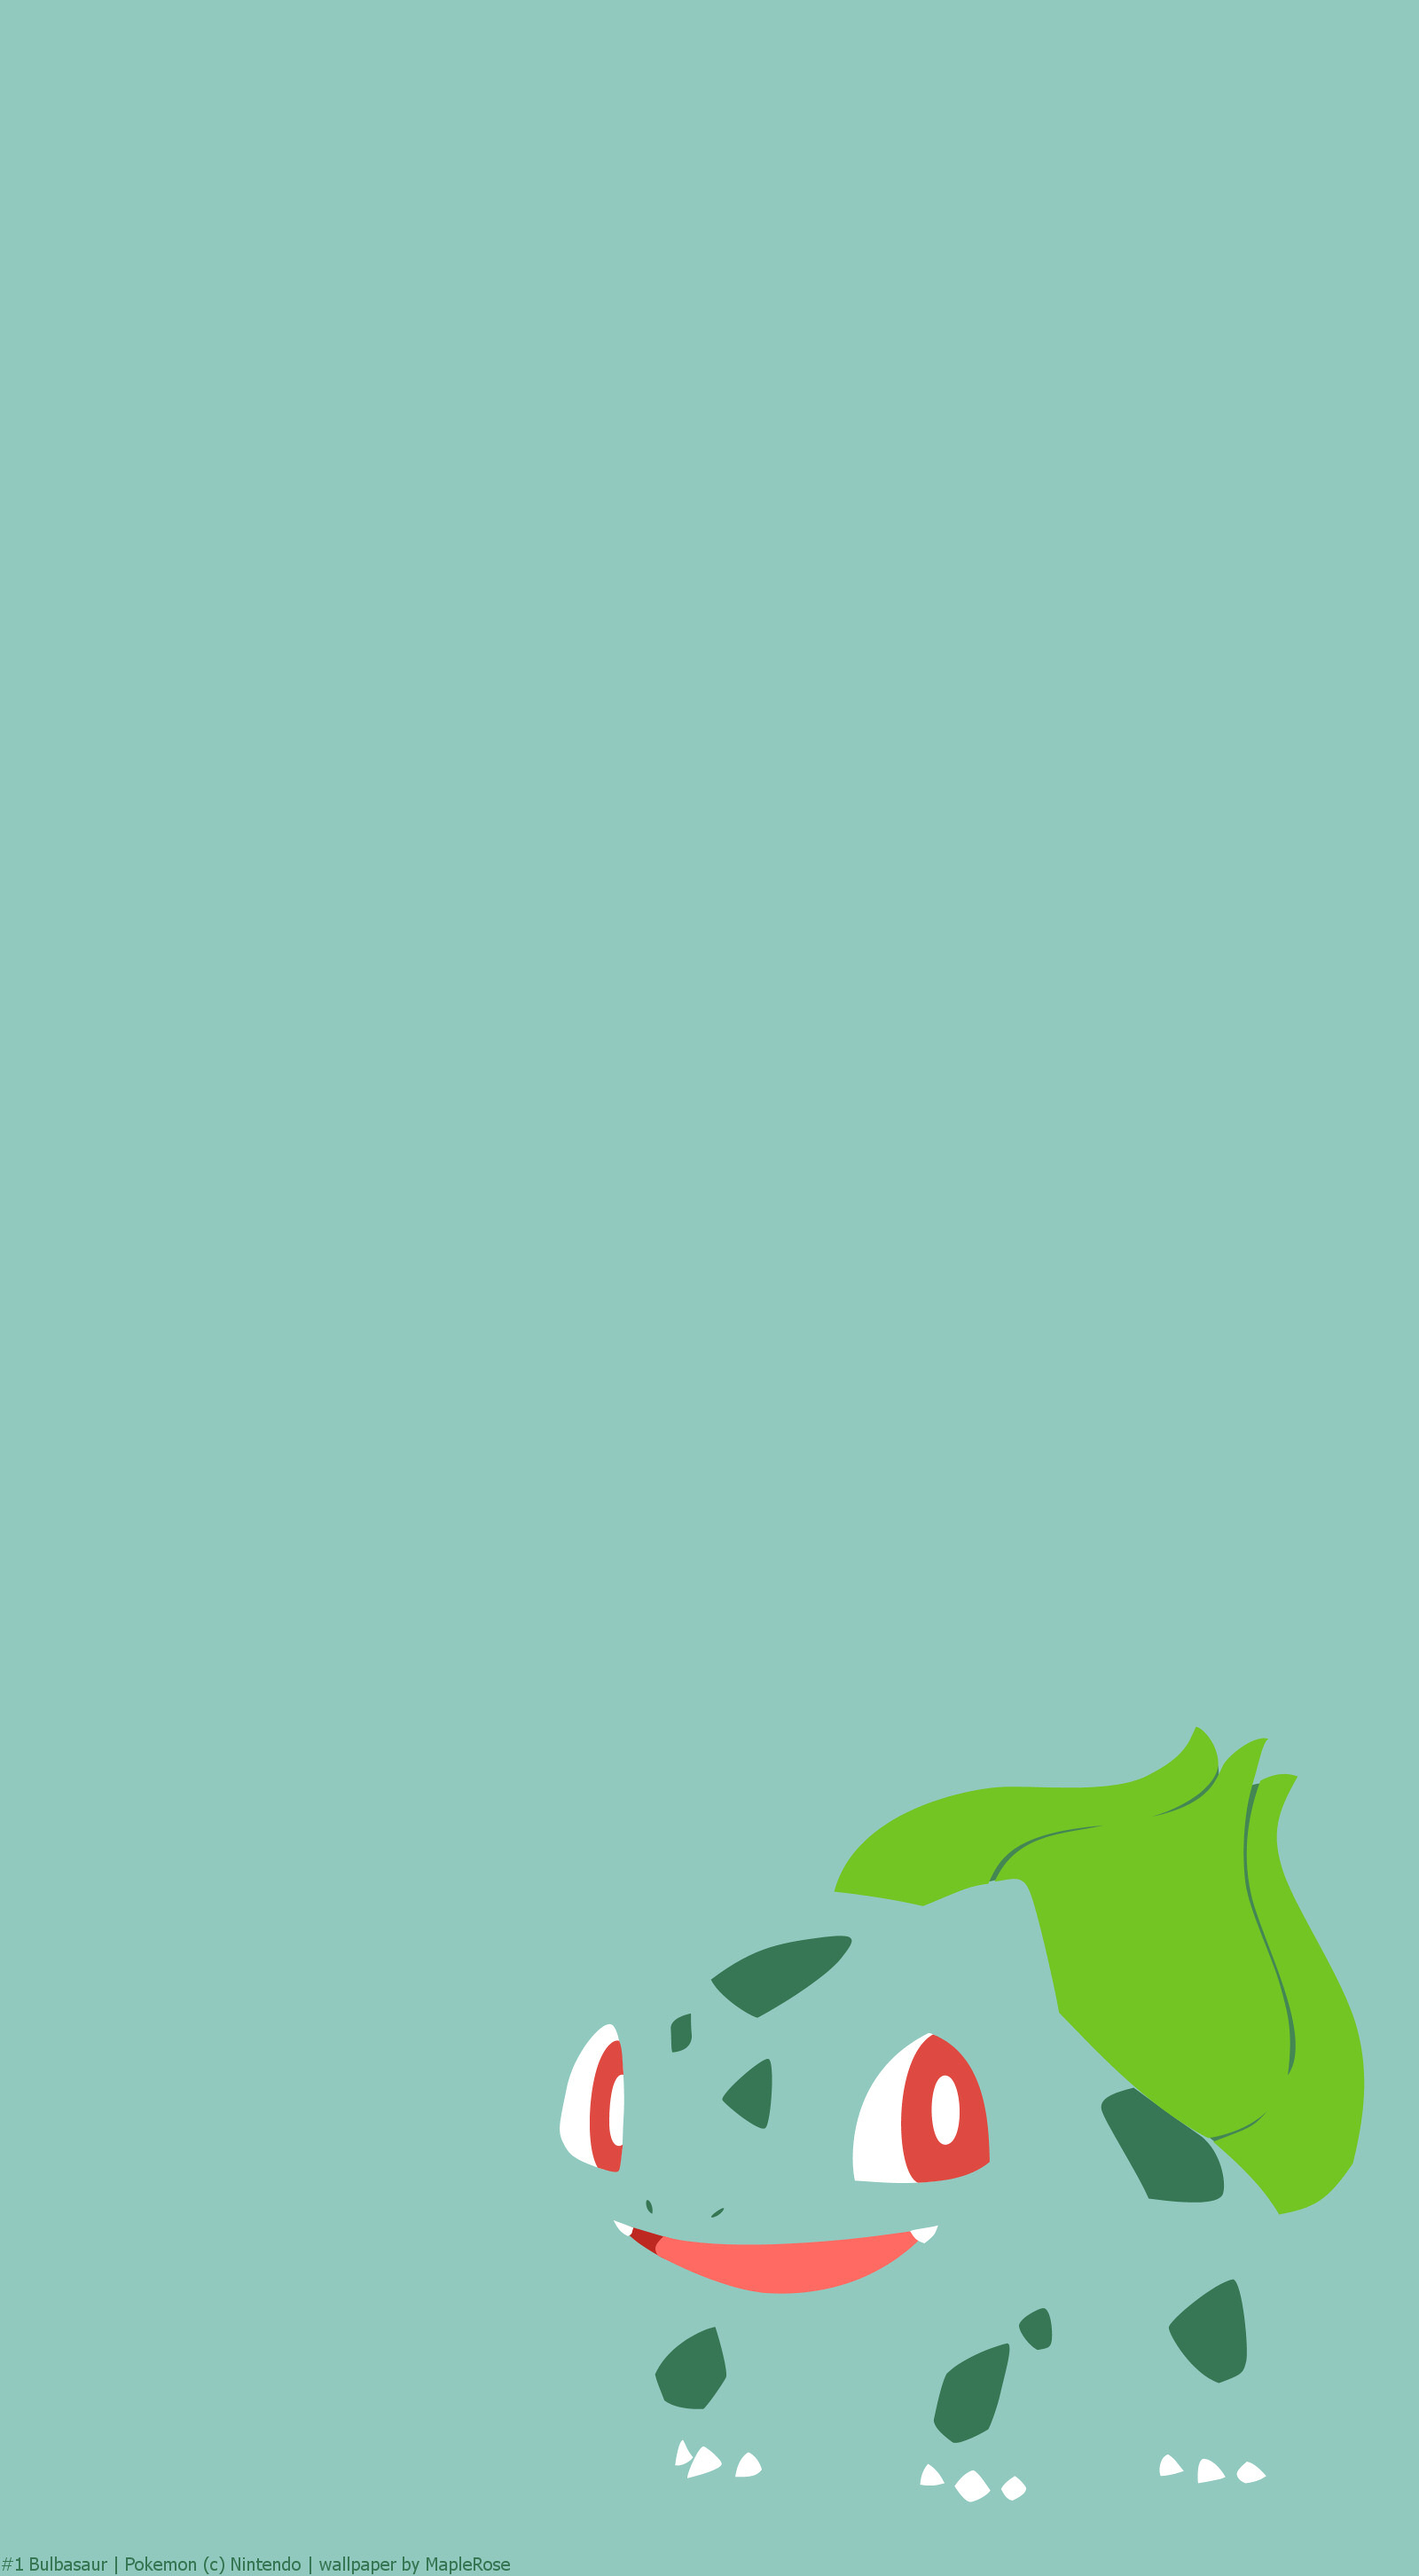
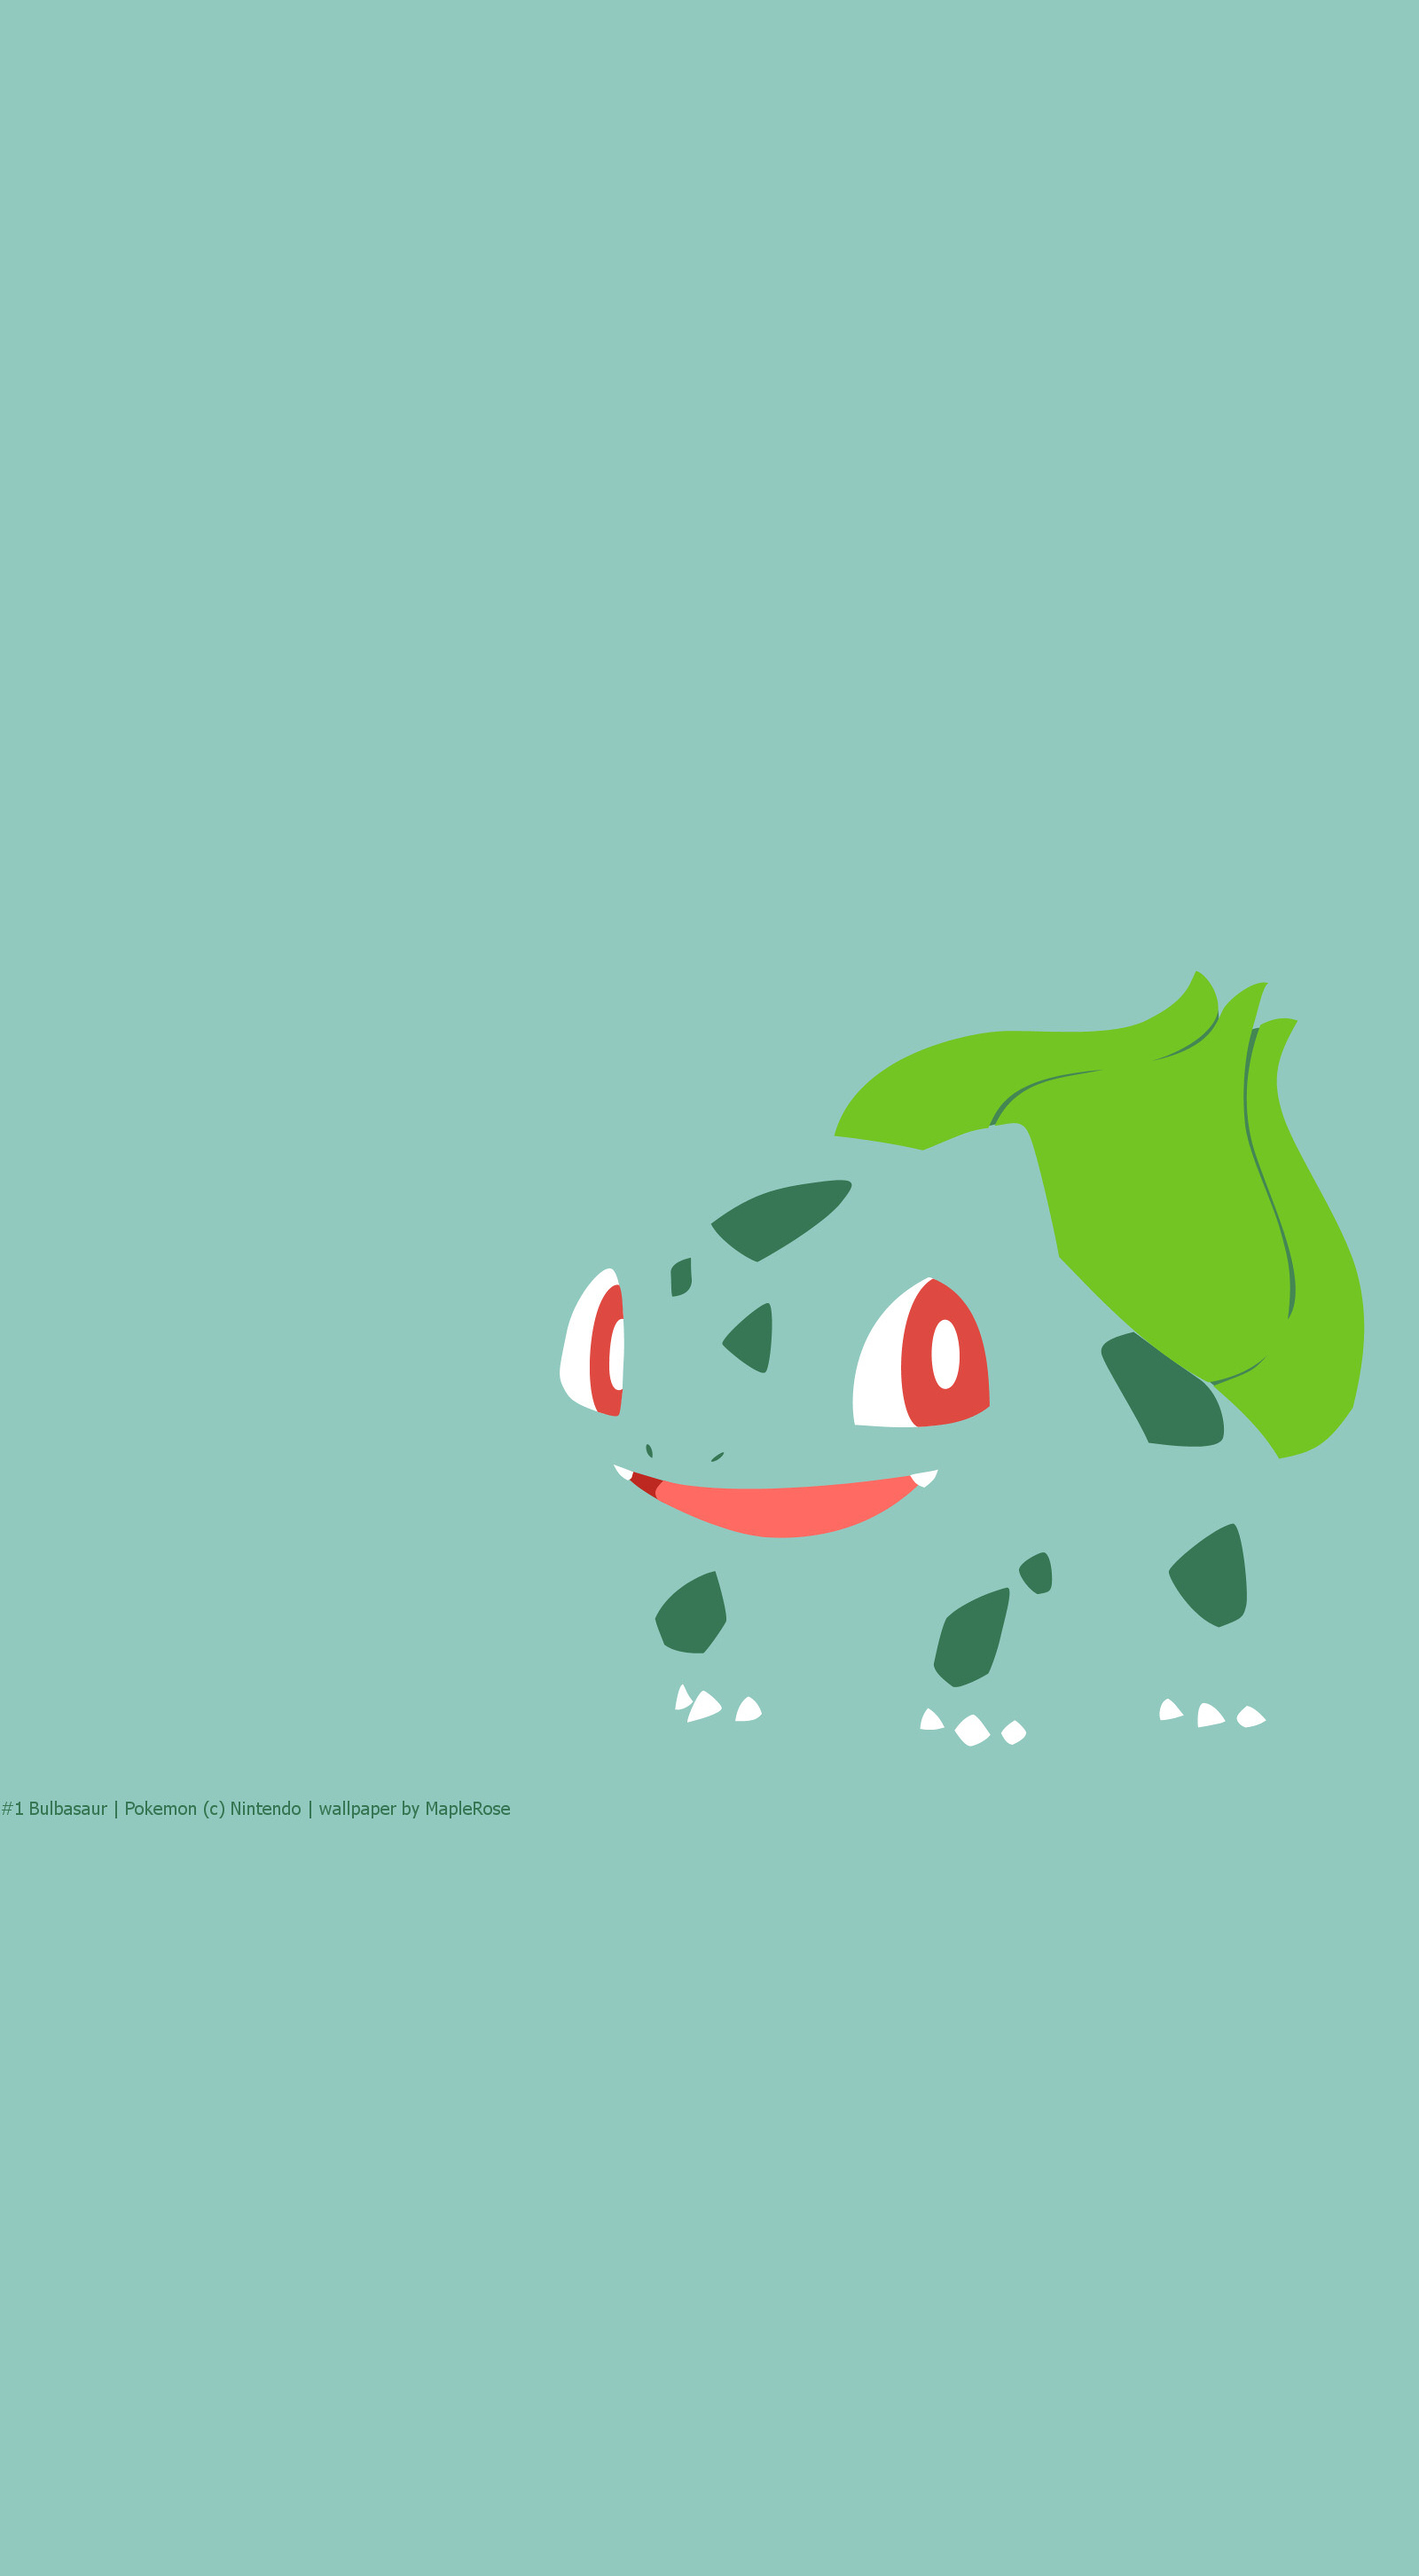
Set gravity to Center

diff --git a/convert.py b/convert.py
@@ -1,5 +1,5 @@
 # magick wallpapers/1bulbasaur.jpg[1x1+0+0] -format "rgb(%[fx:round(255*u.r)],%[fx:round(255*u.g)],%[fx:round(255*u.b)])" info:
-# convert wallpapers/1bulbasaur.jpg -resize 1600x2904 -background 'rgb(145,201,190)' -gravity South -extent 1600x2904 phone-wallpapers/1bulbasaur.jpg
+# convert wallpapers/1bulbasaur.jpg -resize 1600x2904 -background 'rgb(145,201,190)' -gravity Center -extent 1600x2904 phone-wallpapers/1bulbasaur.jpg
 
 from os import scandir
 import subprocess
